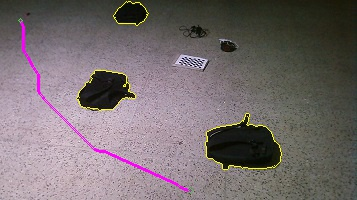
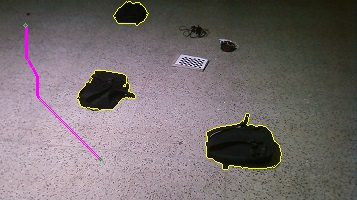
Hybrid Files Updated

Changed region(s): [[0.0308, 0.09, 0.5546, 0.96]]

diff --git a/A-star-feasibility-clearance.py b/A-star-feasibility-clearance.py
@@ -222,10 +222,10 @@ def main():
         '''
         Code from A-star.py
         '''
-        sx = 20 # raw_input("Enter source and destination Coordinates")
-        sy = 20  # raw_input()
-        dx = 190   # raw_input()
-        dy = 190  # raw_input()
+        sx = 25 # raw_input("Enter source and destination Coordinates")
+        sy = 25  # raw_input()
+        dx = 159   # raw_input()
+        dy = 100  # raw_input()
 
        # s = time.clock()
         output = "Clearance/"+`counter`
